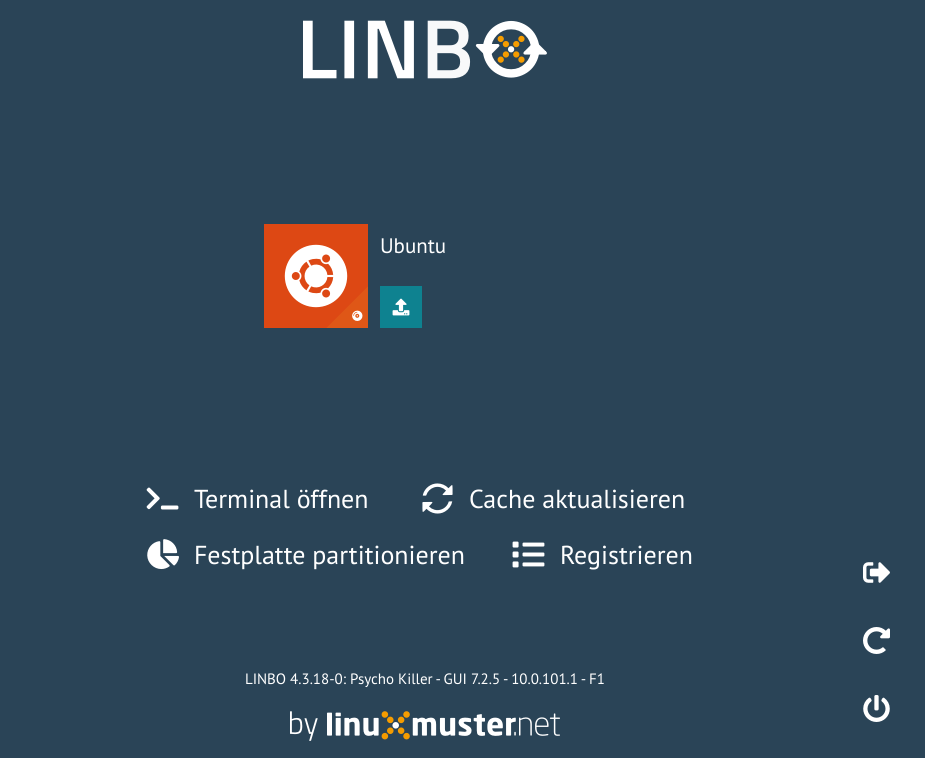
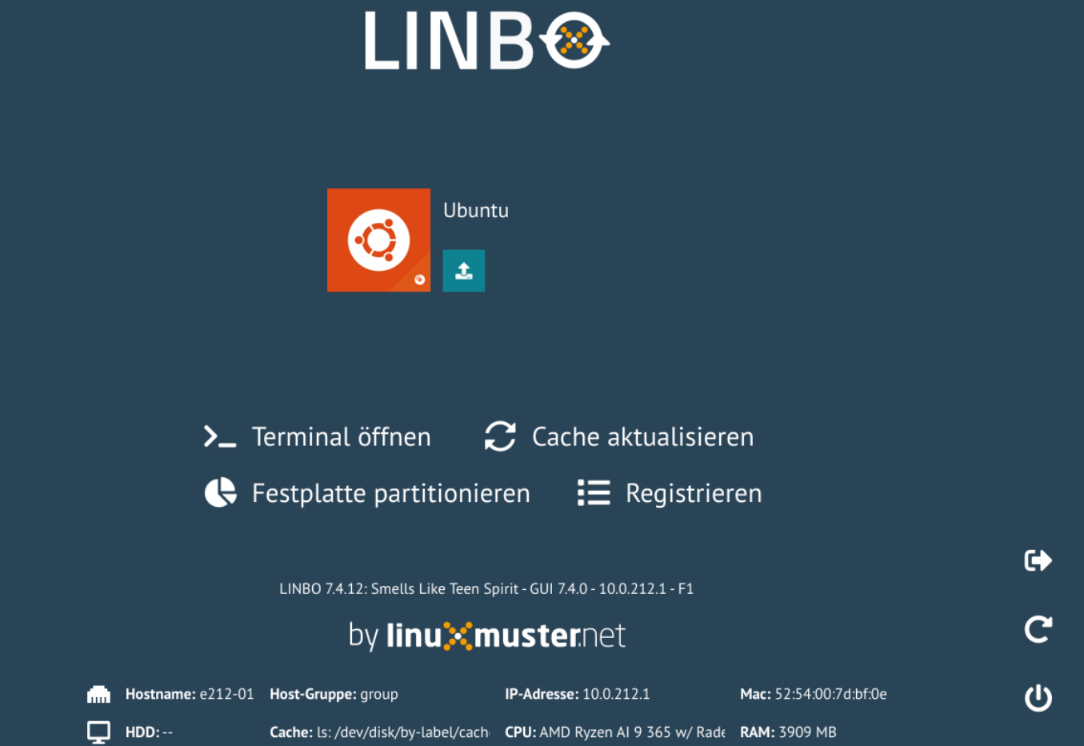
fixed client template description, added some new linbo pics

diff --git a/source/clients/client_templates/index.rst b/source/clients/client_templates/index.rst
@@ -56,20 +56,3 @@ Im letzten Schritt wird nun das eigentliche Betriebssystem auf dem Muster-Client
    hardware_registration/index
    os_installation/index
 
-.. hint::
-   
-   Damit Clients in die Domäne aufgenommen werden können, muss auf dem Server **vorher** die Standard-GPO erzeugt werden. Dies ist auch ``notwendig``, wenn ausschließlich Linux-Clients eingesetzt werden.
-
-Die Standard-GPO wird auf dem Server erzeugt durch:
-
-.. code:: 
-
-  # sophomorix-school --gpo-create default-school
-  
-Anschließend den Samba-Dienst noch neu starten:
-
-.. code:: 
-
-  # systemctl restart samba-ad-dc.service
-  
-
